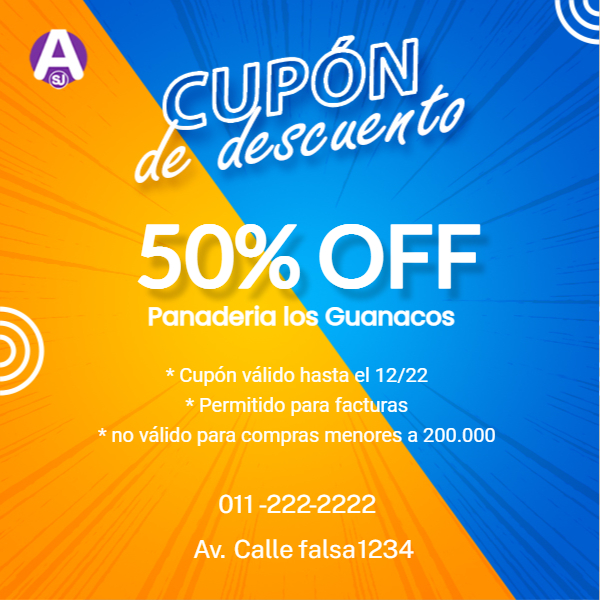
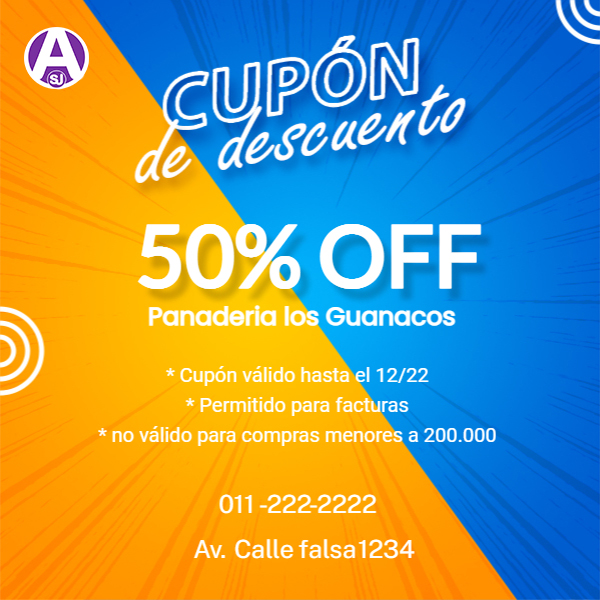
Ejes X e Y & presets nuevos

diff --git a/js/script.js b/js/script.js
@@ -582,6 +582,9 @@ function cargarCoordenadasElementosPlantilla(){
         eliminarHijos("offcanvasImagenid");
 
   for (let i = 0; i < coordenadas.length; i++) {
+    if(coordenadas[i].id === "ejex" || coordenadas[i].id === "ejey"){
+      continue;
+    }else{       
     document.getElementById("contenido").style.background = coordenadas[i].fondo;
     const element = coordenadas[i];
     const elemento = element.id;
@@ -722,7 +725,8 @@ function cargarCoordenadasElementosPlantilla(){
             mensaje("Elemento Texto creado");
           }
         }
-
+        }
+        creardivEjes();
       });
 
       } else {
@@ -789,6 +793,14 @@ function sombraTexto(){
   document.getElementById(id).style.textShadow = "9px 11px 5px rgba(0, 0, 0, 0.18)";
 }
 
+function creardivEjes(){
+  let div = document.createElement("div");
+  div.id = "ejex";
+  document.getElementById("contenido").appendChild(div);
+  let div2 = document.createElement("div");
+  div2.id = "ejey";
+  document.getElementById("contenido").appendChild(div2);
+}
 
 // Eventos
 
@@ -832,6 +844,18 @@ let botonPreset4 = document.getElementById("preset4").addEventListener("click", 
 
 let botonPreset5 =document.getElementById("preset5").addEventListener("click", function(){
   cargarPreset(5);
+});
+
+let botonPreset6 = document.getElementById("preset6").addEventListener("click", function(){
+  cargarPreset(6);
+});
+
+let botonPreset7 = document.getElementById("preset7").addEventListener("click", function(){
+  cargarPreset(7);
+});
+
+let botonPreset8 = document.getElementById("preset8").addEventListener("click", function(){
+  cargarPreset(8);
 });
 
 
@@ -2818,7 +2842,7 @@ const cordepreset = [
       "tamano": "",
       "textoInner": "50% OFF",
       "texto": "<p id=\"2\" class=\"texto2\" style=\"padding: 10px; font-size: 85px; position: absolute; z-index: 2; color: rgb(255, 255, 255); font-family: Lato; font-weight: bold; text-shadow: rgba(0, 0, 0, 0.18) 9px 11px 5px;\">50% OFF</p>",
-      "fondo": "url(\"./img/preset1.jpg\") rgb(255, 255, 255)"
+      "fondo": "url(\"./img/preset2.jpg\") rgb(255, 255, 255)"
   },
   {
       "id": "div3",
@@ -2831,7 +2855,7 @@ const cordepreset = [
       "tamano": "",
       "textoInner": "Av. Calle falsa 1234",
       "texto": "<p id=\"3\" class=\"texto3\" style=\"padding: 10px; font-size: 25px; position: absolute; z-index: 3; color: rgb(255, 255, 255);\">Av. Calle falsa 1234</p>",
-      "fondo": "url(\"./img/preset1.jpg\") rgb(255, 255, 255)"
+      "fondo": "url(\"./img/preset3.jpg\") rgb(255, 255, 255)"
   },
   {
       "id": "div4",
@@ -2844,7 +2868,7 @@ const cordepreset = [
       "tamano": "",
       "textoInner": "011-222-2222",
       "texto": "<p id=\"4\" class=\"texto4\" style=\"padding: 10px; font-size: 25px; position: absolute; z-index: 3; color: rgb(255, 255, 255);\">011-222-2222</p>",
-      "fondo": "url(\"./img/preset1.jpg\") rgb(255, 255, 255)"
+      "fondo": "url(\"./img/preset4.jpg\") rgb(255, 255, 255)"
   },
   {
       "id": "div5",
@@ -2857,7 +2881,7 @@ const cordepreset = [
       "tamano": "",
       "textoInner": "Panaderia los Guanacos",
       "texto": "<p id=\"5\" class=\"texto5\" style=\"padding: 10px; font-size: 25px; position: absolute; z-index: 3; color: rgb(255, 255, 255); font-weight: bold; font-family: Poppins;\">Panaderia los Guanacos</p>",
-      "fondo": "url(\"./img/preset1.jpg\") rgb(255, 255, 255)"
+      "fondo": "url(\"./img/preset5.jpg\") rgb(255, 255, 255)"
   },
   {
       "id": "div6",
@@ -2870,7 +2894,7 @@ const cordepreset = [
       "tamano": "",
       "textoInner": "* Cupón válido hasta el 12/22<br>* Permitido para facturas<br>* no válido para compras menores a 200.000",
       "texto": "<p id=\"6\" class=\"texto6\" style=\"padding: 10px; font-size: 20px; position: absolute; z-index: 6; font-style: normal; text-decoration: none; color: rgb(255, 255, 255); font-family: Roboto; text-align: center;\">* Cupón válido hasta el 12/22<br>* Permitido para facturas<br>* no válido para compras menores a 200.000</p>",
-      "fondo": "url(\"./img/preset1.jpg\") rgb(255, 255, 255)"
+      "fondo": "url(\"./img/preset6.jpg\") rgb(255, 255, 255)"
   }
 ];
 
@@ -2898,6 +2922,12 @@ function cargarPreset(p){
           document.getElementById("contenido").style.background = "url(\"./img/preset4.jpg\") rgb(255, 255, 255)";
         } else if (p == 5){
           document.getElementById("contenido").style.background = "url(\"./img/preset5.jpg\") rgb(255, 255, 255)";
+        } else if (p == 6){
+          document.getElementById("contenido").style.background = "url(\"./img/preset6.jpg\") rgb(255, 255, 255)";
+        } else if (p == 7) {
+          document.getElementById("contenido").style.background = "url(\"./img/preset7.jpg\") rgb(255, 255, 255)";
+        } else if (p == 8) {
+          document.getElementById("contenido").style.background = "url(\"./img/preset8.jpg\") rgb(255, 255, 255)";
         } 
 
         eliminarHijos("input");
@@ -3047,8 +3077,10 @@ function cargarPreset(p){
 
             mensaje("Elemento Texto creado");
           }
+          creardivEjes();
         }
 
       });
 
 }
+

diff --git a/index.html b/index.html
@@ -207,6 +207,8 @@
           </div>
             <div class="d-flex justify-content-center align-content-center align-items-center" style="height: 77vh!important;">
                  <div class="cards" id="contenido" style="background: #fff;color:#000;zoom: 60%; position: relative; ">
+                  <div id="ejey" ></div>
+                  <div id="ejex" ></div>
                 </div>
             </div>
             <footer class="mx-4 text-muted">
@@ -233,6 +235,9 @@
           <img class="preset img-fluid" id="preset3" src="img/3.jpg" class="card-img-top" style="height:100px; width:100px;" alt="...">
           <img class="preset img-fluid" id="preset4" src="img/4.jpg" class="card-img-top" style="height:100px; width:100px;" alt="...">
           <img class="preset img-fluid" id="preset5" src="img/5.jpg" class="card-img-top" style="height:100px; width:100px;" alt="...">
+          <img class="preset img-fluid" id="preset6" src="img/6.jpg" class="card-img-top" style="height:100px; width:100px;" alt="...">
+          <img class="preset img-fluid" id="preset7" src="img/7.jpg" class="card-img-top" style="height:100px; width:100px;" alt="...">
+          <img class="preset img-fluid" id="preset8" src="img/8.jpg" class="card-img-top" style="height:100px; width:100px;" alt="...">
 
       </div>
     </div>

diff --git a/css/estilos.css b/css/estilos.css
@@ -140,3 +140,29 @@ div#contenido img:hover{
     background: var(--primary);
     ;
 }
+
+#ejex {
+    width: 100%; height: 1px; background-color: transparent;z-index: 200; position: absolute; border-top: 1px solid transparent; border-bottom: 1px solid transparent;
+}
+
+#ejey {
+    width: 1px; height: 100%; background-color: transparent;z-index:  200; position: absolute; border-left: 1px solid transparent; border-right: 1px solid transparent;
+}
+
+#ejex:hover {
+    background-color: var(--primary);
+    color: var(--primary);
+}
+
+#ejey:hover {
+    background-color: var(--primary);
+    color: var(--primary);
+}
+
+#ejex {
+    transition: 0.2s ease-out;
+}
+
+#ejey {
+    transition: 0.2s ease-out;
+}
